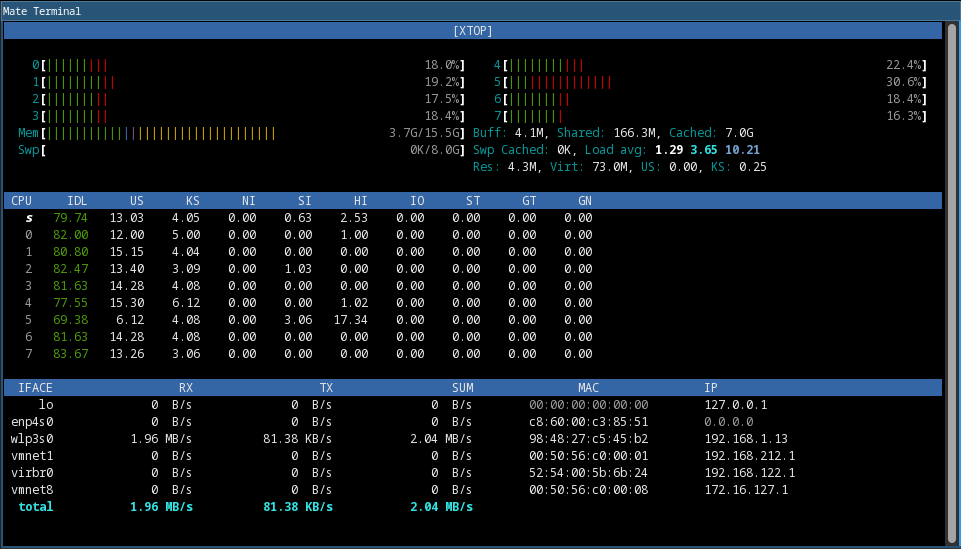
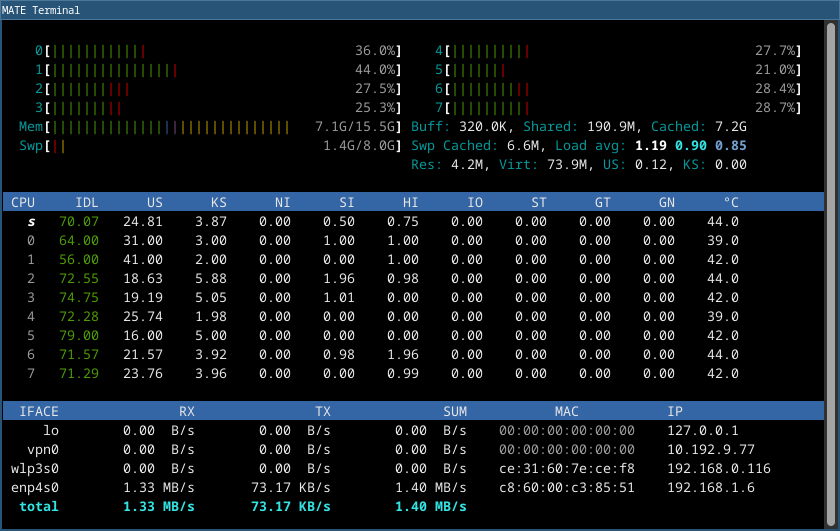
Better cli frame and line rendering

Changed region(s): [[0.0, 0.0, 1.0, 1.0], [0.3095, 0.2109, 0.3405, 0.2411]]

diff --git a/src/sys/cli.c b/src/sys/cli.c
@@ -252,20 +252,12 @@ void XCLIWin_Init(xcli_win_t *pWin, xbool_t bAscii)
     pWin->bAscii = bAscii;
 }
 
-XSTATUS XCLIWin_UpdateSize(xcli_win_t *pWin)
-{
-    XSTATUS nStatus = XCLI_GetWindowSize(&pWin->frame);
-    if (pWin->eType == XCLI_LINE_BY_LINE &&
-        nStatus != XSTDERR) pWin->frame.nRows--;
-    return nStatus;
-}
-
 XSTATUS XCLIWin_AddLine(xcli_win_t *pWin, char *pLine, size_t nLength)
 {
     xcli_size_t *pFrame = &pWin->frame;
     xarray_t *pLines = &pWin->lines;
 
-    if (XCLIWin_UpdateSize(pWin) == XSTDERR) return XSTDERR;
+    if (XCLI_GetWindowSize(&pWin->frame) == XSTDERR) return XSTDERR;
     if (pLines->nUsed >= pFrame->nRows) return XSTDNON;
 
     if (XArray_AddData(pLines, pLine, nLength) < 0)
@@ -282,7 +274,7 @@ XSTATUS XCLIWin_AddLineFmt(xcli_win_t *pWin, const char *pFmt, ...)
     xcli_size_t *pFrame = &pWin->frame;
     xarray_t *pLines = &pWin->lines;
 
-    if (XCLIWin_UpdateSize(pWin) == XSTDERR) return XSTDERR;
+    if (XCLI_GetWindowSize(&pWin->frame) == XSTDERR) return XSTDERR;
     if (pLines->nUsed >= pFrame->nRows) return XSTDNON;
 
     size_t nLength = 0;
@@ -303,7 +295,7 @@ XSTATUS XCLIWin_AddLineFmt(xcli_win_t *pWin, const char *pFmt, ...)
 
 XSTATUS XCLIWin_AddEmptyLine(xcli_win_t *pWin)
 {
-    if (XCLIWin_UpdateSize(pWin) == XSTDERR) return XSTDERR;
+    if (XCLI_GetWindowSize(&pWin->frame) == XSTDERR) return XSTDERR;
     size_t nColumns = pWin->frame.nColumns;
     char emptyLine[XLINE_MAX];
 
@@ -316,7 +308,7 @@ XSTATUS XCLIWin_AddEmptyLine(xcli_win_t *pWin)
 
 XSTATUS XCLIWin_AddAligned(xcli_win_t *pWin, const char *pInput, const char *pFmt, uint8_t nAlign)
 {
-    if (XCLIWin_UpdateSize(pWin) == XSTDERR) return XSTDERR;
+    if (XCLI_GetWindowSize(&pWin->frame) == XSTDERR) return XSTDERR;
     size_t nColumns = pWin->frame.nColumns;
 
     size_t nInputLen = strlen(pInput);
@@ -361,7 +353,11 @@ int XCLIWin_ClearScreen(xbool_t bAscii)
 
 XSTATUS XCLIWin_RenderLine(xcli_win_t *pWin, xbyte_buffer_t *pLine, xarray_data_t *pArrData)
 {
-    if (XCLIWin_UpdateSize(pWin) == XSTDERR) return XSTDERR;
+    XCHECK(pWin, XSTDERR);
+    XCHECK(pLine, XSTDERR);
+    XCHECK(pArrData, XSTDERR);
+
+    if (XCLI_GetWindowSize(&pWin->frame) == XSTDERR) return XSTDERR;
     size_t nChars = 0, nMaxSize = pWin->frame.nColumns;
 
     XByteBuffer_SetData(pLine, (uint8_t*)pArrData->pData, pArrData->nSize);
@@ -405,13 +401,14 @@ XSTATUS XCLIWin_RenderLine(xcli_win_t *pWin, xbyte_buffer_t *pLine, xarray_data_
 
 XSTATUS XCLIWin_GetFrame(xcli_win_t *pWin, xbyte_buffer_t *pFrameBuff)
 {
-    if (pWin == NULL || pFrameBuff == NULL) return XSTDERR;
+    XCHECK(pWin, XSTDERR);
+    XCHECK(pFrameBuff, XSTDERR);
     XByteBuffer_Init(pFrameBuff, XSTDNON, XFALSE);
 
     xarray_t *pLines = &pWin->lines;
-    size_t i;
+    size_t i, nRows = XSTD_MIN(pWin->frame.nRows, pLines->nUsed);
 
-    for (i = 0; i < pLines->nUsed; i++)
+    for (i = 0; i < nRows; i++)
     {
         xarray_data_t *pData = XArray_Get(pLines, i);
         if (pData == NULL) continue;
@@ -439,15 +436,13 @@ XSTATUS XCLIWin_GetFrame(xcli_win_t *pWin, xbyte_buffer_t *pFrameBuff)
 
 XSTATUS XCLIWin_Display(xcli_win_t *pWin)
 {
-    XSTATUS nStatus = XSTDNON;
-    size_t nLineCount = 0;
+    XCHECK(pWin, XSTDERR);
 
     if (pWin->eType == XCLI_LINE_BY_LINE)
     {
         XCLIWin_ClearScreen(pWin->bAscii);
         xarray_t *pLines = &pWin->lines;
-        size_t i, nWinRows = pWin->frame.nRows;
-        size_t nRows = XSTD_MIN(nWinRows, pLines->nUsed);
+        size_t i, nRows = XSTD_MIN(pWin->frame.nRows, pLines->nUsed);
 
         for (i = 0; i < nRows; i++)
         {
@@ -461,19 +456,17 @@ XSTATUS XCLIWin_Display(xcli_win_t *pWin)
                 return XSTDERR;
             }
 
-            printf("%s\n", (char*)lineBuff.pData);
-            nLineCount++;
+            printf("%s", (char*)lineBuff.pData);
+            if (i < (nRows - 1)) printf("\n");
         }
 
-        for (i = nLineCount; i < nWinRows; i++) printf("\n");
-
         fflush(stdout);
-        nStatus = XSTDOK;
+        return XSTDOK;
     }
     else if (pWin->eType == XCLI_RENDER_FRAME)
     {
         xbyte_buffer_t frameBuf;
-        nStatus = XCLIWin_GetFrame(pWin, &frameBuf);
+        XSTATUS nStatus = XCLIWin_GetFrame(pWin, &frameBuf);
         if (nStatus == XSTDERR) return nStatus;
 
         XCLIWin_ClearScreen(pWin->bAscii);
@@ -481,10 +474,10 @@ XSTATUS XCLIWin_Display(xcli_win_t *pWin)
         fflush(stdout);
 
         XByteBuffer_Clear(&frameBuf);
-        nStatus = XSTDOK;
+        return XSTDOK;
     }
 
-    return nStatus;
+    return XSTDNON;
 }
 
 XSTATUS XCLIWin_Flush(xcli_win_t *pWin)

diff --git a/src/data/str.c b/src/data/str.c
@@ -587,6 +587,8 @@ size_t xstrisextra(const char *pOffset)
         !strncmp(pOffset, XSTR_FMT_HIDE, 4) ||
         !strncmp(pOffset, XSTR_FMT_DIM, 4)) return 4;
 
+    if (!strncmp(pOffset, XSTR_DEGREE_SYMBOL, 2)) return 1;
+
     return 0;
 }
 
@@ -601,7 +603,7 @@ size_t xstrextra(const char *pStr, size_t nLength, size_t nMaxChars, size_t *pCh
         if (nMaxChars && nChars >= nMaxChars) break;
         const char *pOffset = &pStr[nPosit];
 
-        if (*pOffset == '\x1B')
+        if (*pOffset == '\x1B' || *pOffset == '\xC2')
         {
             size_t nFound = xstrisextra(pOffset);
             if (nFound)

diff --git a/src/data/str.h b/src/data/str.h
@@ -55,6 +55,8 @@
 #define XSTR_FMT_RESET              XSTR_CLR_NONE
 #define XSTR_SCREEN_CLEAR           "\033[H\033[J"
 
+#define XSTR_DEGREE_SYMBOL          "\xC2\xB0"
+
 #define XSTR_DOUBLE_ARG_MAX         309
 #define XSTR_INT_ARG_MAX            32
 #define XSTR_LETTERS                52

diff --git a/src/xver.h b/src/xver.h
@@ -12,8 +12,8 @@
 
 #define XUTILS_VERSION_MAX      2
 #define XUTILS_VERSION_MIN      8
-#define XUTILS_BUILD_NUMBER     13
-#define XUTILS_RELEASE_DATE     "10May2026"
+#define XUTILS_BUILD_NUMBER     14
+#define XUTILS_RELEASE_DATE     "11May2026"
 
 #ifdef __cplusplus
 extern "C" {

diff --git a/tools/xtop.c b/tools/xtop.c
@@ -41,7 +41,7 @@
     "NI      SI      "\
     "HI      IO      "\
     "ST      GT      "\
-    "GN    TEMP"
+    "GN      "XSTR_DEGREE_SYMBOL"C"
 
 #define XTOP_IFACE_HEADER "IFACE"
 
